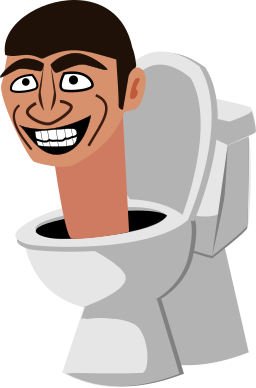
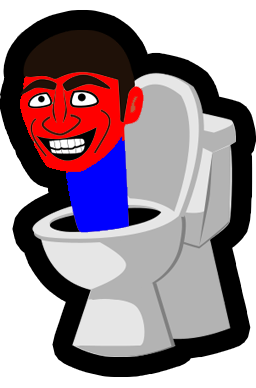
sigma rizzer

diff --git a/SigmaMenu/SigmaMenuPlugin.cs b/SigmaMenu/SigmaMenuPlugin.cs
@@ -1,9 +1,21 @@
-using BepInEx;
+using System;
+using System.Linq;
+using System.Reflection;
+using System.Text.RegularExpressions;
+using AmongUs.GameOptions;
+using Assets.CoreScripts;
+using BepInEx;
 using BepInEx.Configuration;
 using BepInEx.Unity.IL2CPP;
 using HarmonyLib;
+using Il2CppInterop.Runtime.Attributes;
 using Reactor;
 using Reactor.Utilities;
+using Reactor.Utilities.Attributes;
+using Reactor.Utilities.Extensions;
+using Reactor.Utilities.ImGui;
+using UnityEngine;
+using Object = UnityEngine.Object;
 
 namespace SigmaMenu;
 
@@ -14,21 +26,281 @@ public partial class SigmaMenuPlugin : BasePlugin
 {
     public Harmony Harmony { get; } = new(Id);
 
-    public ConfigEntry<string> ConfigName { get; private set; }
+    public static ConfigEntry<bool> AlwaysImpostor { get; private set; }
+
+    public static ConfigEntry<bool> RevealImps { get; private set; }
+    
+    public static Sprite SkibidiSprite { get; private set; }
+    
+    public static Vector3 LastPosition { get; set; }
+    
+    public static bool lastNoClip { get; set; }
+    public static bool NoClip { get; set; }
+    private static byte[] fakeImps = [];
+
+    private static bool spamchat;
 
     public override void Load()
     {
-        ConfigName = Config.Bind("Fake", "Name", ":>");
-
+        AlwaysImpostor = Config.Bind("Cheats", "Always Skibidi", false);
+        RevealImps = Config.Bind("Cheats", "Reveal Skibidis", false);
+        
+        ReactorCredits.Register("USING SIGMA MENU", Version, false, _ => true);
+        AddComponent<SigmaMenu>();
         Harmony.PatchAll();
     }
+    
+    [RegisterInIl2Cpp]
+    public class SigmaMenu(IntPtr ptr) : MonoBehaviour(ptr)
+    {
+        [HideFromIl2Cpp]
+        public DragWindow SigmaWindow { get; } = new(
+            new Rect(10, 10, 0, 0),
+            "SIGMA MENU",
+            () =>
+            {
+                GUILayout.Label("Skibidi options");
+                AlwaysImpostor.Value = GUILayout.Toggle(AlwaysImpostor.Value, "Always Skibidi");
+                RevealImps.Value = GUILayout.Toggle(RevealImps.Value, "Reveal Skibidis");
+                GUILayout.Label("Other sussy options");
+                NoClip = GUILayout.Toggle(NoClip, "No Sigma Clip");
+                spamchat = GUILayout.Toggle(spamchat, "Rizz up chat");
+            })
+        {
+            Enabled = true,
+        };
 
-    [HarmonyPatch(typeof(PlayerControl), nameof(PlayerControl.FixedUpdate))]
-    public static class ExamplePatch
+        public void OnGUI()
+        {
+            SigmaWindow.OnGUI();
+        }
+    }
+    
+
+    [HarmonyPatch(typeof(PlayerControl), nameof(PlayerControl.Start))]
+    public static class PlayerControlPatches
     {
         public static void Postfix(PlayerControl __instance)
         {
-            __instance.cosmetics.nameText.text = PluginSingleton<SigmaMenuPlugin>.Instance.ConfigName.Value;
+            SkibidiSprite = LoadSpriteFromPath("SigmaMenu.Resources.skbidi.png", Assembly.GetExecutingAssembly(), 200);
+            var skibidi = new GameObject("Skibidi");
+            var skibidiRenderer = skibidi.AddComponent<SpriteRenderer>();
+            skibidiRenderer.sprite = SkibidiSprite;
+            skibidiRenderer.material = HatManager.Instance.PlayerMaterial;
+            skibidiRenderer.flipX = !__instance.cosmetics.FlipX;
+
+            skibidi.transform.SetParent(__instance.transform, false);
+            skibidi.transform.localPosition = new Vector3(0, 0, -0.1f);
+            skibidi.layer = 8;
         }
+    }
+    
+
+    [HarmonyPatch(typeof(ChatController), nameof(ChatController.Update))]
+    public static class chatspammer
+    {
+        private static string[] brainrot =
+        [
+            "gyats in ohoi",
+            "skibidi toilet will be mine yeah ohio rizzer gyat",
+            "Sigma Sigma on the Wall, who is the skibidiest of them all",
+            "Skibidi Bop Yes Yes",
+            "Rizz em up",
+            "keep mewing bro",
+            "Sigma grindset",
+            "WHAT KINDA BOMBOCLAT DAWG ARE YA",
+            "put the fries in the bag",
+            "duke dennis did you pray today",
+            "the rizzler is so goated with the sauce",
+            "Fortnite Balls",
+            "Im feeling romantical",
+            "Sigmaing my gyat rizzer in ohio without hawk tuah",
+            "skibidi skibidi hawk tuah hawk",
+            "hawk tuah",
+            "you gotta hawk tuah, spit on that thang",
+        ];
+        
+        public static void Postfix(ChatController __instance)
+        {
+            if (spamchat)
+            {
+                __instance.AddChat(PlayerControl.LocalPlayer, brainrot.Random(), false);
+            }
+        }
+    }
+    
+    [HarmonyPatch(typeof(HudManager), nameof(HudManager.Update))]
+    public static class hudpatc
+    {
+        public static void Postfix(HudManager __instance)
+        {
+            if (AlwaysImpostor.Value &&  !PlayerControl.LocalPlayer.Data.Role.IsImpostor)
+            {
+                var plrs =
+                    PlayerControl.LocalPlayer.Data.Role.GetPlayersInAbilityRangeSorted(
+                        RoleBehaviour.GetTempPlayerList());
+                var vent = Object.FindObjectsOfType<Vent>().Random();
+
+                var localPlayer = PlayerControl.LocalPlayer;
+                
+                __instance.KillButton.gameObject.SetActive(true);
+                __instance.SabotageButton.gameObject.SetActive(true);
+                __instance.SabotageButton.GetComponent<PassiveButton>().AddOnClickListeners(
+                    (Action)(() =>
+                    {
+                        __instance.ToggleMapVisible(new MapOptions()
+                        {
+                            Mode = MapOptions.Modes.Sabotage
+                        });
+                    }));
+                __instance.ImpostorVentButton.gameObject.SetActive(true);
+                __instance.ImpostorVentButton.GetComponent<PassiveButton>().AddOnClickListeners(
+                    (Action)(() =>
+                    {
+                        localPlayer.NetTransform.SnapTo(vent.transform.position);
+                        if (localPlayer.inVent && !localPlayer.walkingToVent)
+                        {
+                            localPlayer.MyPhysics.StartCoroutine(localPlayer.MyPhysics.CoExitVent(vent.Id));
+                            vent.SetButtons(false);
+                            return;
+                        }
+                        if (!localPlayer.walkingToVent)
+                        {
+                            localPlayer.MyPhysics.StartCoroutine(localPlayer.MyPhysics.CoEnterVent(vent.Id));
+                            vent.SetButtons(true);
+                        }                    
+                    }));
+                __instance.ImpostorVentButton.SetTarget(vent);
+                if (plrs.Count > 0)
+                {
+                    __instance.KillButton.SetTarget(plrs.ToArray()[0]);
+                }
+            }
+            else if (!PlayerControl.LocalPlayer.Data.Role.IsImpostor)
+            {
+                __instance.SabotageButton.gameObject.SetActive(false);
+                __instance.ImpostorVentButton.gameObject.SetActive(false);
+                __instance.KillButton.gameObject.SetActive(false);
+            }
+        }
+    }
+
+    [HarmonyPatch(typeof(ShipStatus), nameof(ShipStatus.CalculateLightRadius))]
+    public static class Shippatc3h
+    {
+        public static void Postfix(ShipStatus __instance, ref float __result)
+        {
+            if (AlwaysImpostor.Value && !PlayerControl.LocalPlayer.Data.Role.IsImpostor)
+            {
+                __result = __instance.MaxLightRadius * GameOptionsManager.Instance.CurrentGameOptions.GetFloat(FloatOptionNames.ImpostorLightMod);
+            }
+        }
+    }
+
+
+    [HarmonyPatch(typeof(ShipStatus), nameof(ShipStatus.Begin))]
+    public static class Shippatch
+    {
+        public static void Postfix()
+        {
+            var maxImp = GameManager.Instance.LogicOptions.GetAdjustedNumImpostors(GameData.Instance.PlayerCount);
+            Logger<SigmaMenuPlugin>.Error(maxImp);
+            fakeImps = new byte[maxImp];
+            var plrs = PlayerControl.AllPlayerControls.ToArray().Where(x => !x.Data.Role.IsImpostor && !x.AmOwner).ToArray();
+
+            for (var i = 0; i < maxImp; i++)
+            {
+                fakeImps[i] = plrs.Random().PlayerId;
+                Logger<SigmaMenuPlugin>.Error(fakeImps[i]);
+            }
+        }
+    }
+    
+
+    [HarmonyPatch(typeof(PlayerControl), nameof(PlayerControl.FixedUpdate))]
+    public static class PlayerControlYpgfaPatches
+    {
+        public static void Postfix(PlayerControl __instance)
+        {
+            var skibidi = __instance.transform.Find("Skibidi").GetComponent<SpriteRenderer>();
+            __instance.SetPlayerMaterialColors(skibidi);
+            skibidi.flipX = !__instance.cosmetics.FlipX;
+
+            if (RevealImps.Value && fakeImps.Contains(__instance.PlayerId))
+            {
+                __instance.cosmetics.SetNameColor(Palette.ImpostorRed);
+            }
+            else if (!__instance.Data.Role.IsImpostor)
+            {
+                __instance.cosmetics.SetNameColor(Color.white);
+            }
+            
+            if (!__instance.AmOwner)
+            {
+                return;
+            }
+
+            if (AlwaysImpostor.Value && !PlayerControl.LocalPlayer.Data.Role.IsImpostor)
+            {
+                __instance.cosmetics.SetNameColor(Palette.ImpostorRed);
+            }
+            
+            if (NoClip && !lastNoClip)
+            {
+                LastPosition = __instance.transform.position;
+            }
+            if (!NoClip && lastNoClip)
+            {
+                __instance.NetTransform.SnapTo(LastPosition);
+            }
+
+            __instance.NetTransform.isPaused = NoClip;
+            __instance.Collider.enabled = !NoClip;
+            lastNoClip = NoClip;
+        }
+    }
+
+
+    [HarmonyPatch(typeof(PlayerControl), nameof(PlayerControl.RpcSendChat))]
+    public static class PlayerControlPatches2
+    {
+        public static bool Prefix(PlayerControl __instance, string chatText, ref bool __result)
+        {
+            if (!__instance.AmOwner)
+            {
+                return true;
+            }
+
+            chatText = Regex.Replace(chatText, "<.*?>", string.Empty);
+            if (string.IsNullOrWhiteSpace(chatText))
+            {
+                __result = false;
+                return false;
+            }
+            if (AmongUsClient.Instance.AmClient && HudManager.Instance)
+            {
+                HudManager.Instance.Chat.AddChat(__instance, chatText);
+            }
+            if (chatText.Contains("who", StringComparison.OrdinalIgnoreCase))
+            {
+                UnityTelemetry.Instance.SendWho();
+            }
+            
+            var messageWriter = AmongUsClient.Instance.StartRpc(__instance.NetId, 13);
+            messageWriter.Write("im hacking, skibidi hawk tuah. report me");
+            messageWriter.EndMessage();
+            __result = true;
+            return false;
+        }
+    }
+    
+    public static Sprite LoadSpriteFromPath(string resourcePath, Assembly assembly, float pixelsPerUnit)
+    {
+        var tex = new Texture2D(1, 1, TextureFormat.ARGB32, false);
+        var myStream = assembly.GetManifestResourceStream(resourcePath);
+        var buttonTexture = myStream.ReadFully();
+        tex.LoadImage(buttonTexture, false);
+
+        return Sprite.Create(tex, new Rect(0, 0, tex.width, tex.height), new Vector2(0.5f, 0.5f), pixelsPerUnit);
     }
 }
